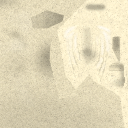
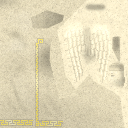
Shrine texture update, shrine prisms track active buffs

diff --git a/src/com/xrbpowered/ruins/render/prefab/PrefabRenderer.java b/src/com/xrbpowered/ruins/render/prefab/PrefabRenderer.java
@@ -18,8 +18,9 @@ public class PrefabRenderer extends InstanceRenderer<PrefabComponent> {
 	public static Prefab obelisk;
 	public static Prefab obeliskGlow;
 	public static Prefab portalBroken;
-	public static Prefab portalFrame;
+	public static Prefab portalOff;
 	public static Prefab portal;
+	public static Prefab shrineOff;
 	public static Prefab shrine;
 
 	public static Prefab[] jars;
@@ -71,14 +72,14 @@ public class PrefabRenderer extends InstanceRenderer<PrefabComponent> {
 		StaticMesh portalFrameMesh =mesh("portal/portal.obj");
 		PrefabRenderer.portalBroken = new Prefab(false, add(new PrefabComponent(mesh("portal/portal_broken.obj"), portalTex)));
 		
-		final PrefabComponent portalFrameOn = add(new PrefabComponent(portalFrameMesh, portalTex).setGlow(texture("portal/portal_glow.png")));
+		final PrefabComponent portalFrame = add(new PrefabComponent(portalFrameMesh, portalTex));
 		final PrefabComponent portalPane = add(new PrefabComponent(mesh("portal/portal_pane.obj"), InstanceComponent.getBlack()).setCulling(false).setGlow(texture("portal/astral.png")));
 		final PrefabComponent portalInteract = add(new PrefabComponent(mesh("portal/portal_inter.obj"), portalTex));
-		PrefabRenderer.portalFrame = new Prefab(true, add(new PrefabComponent(portalFrameMesh, portalTex)));
+		PrefabRenderer.portalOff = new Prefab(true, portalFrame);
 		PrefabRenderer.portal = new Prefab() {
 			@Override
 			public void addInstance(World world, MapObject obj) {
-				portalFrameOn.addInstance(obj.instInfo);
+				portalFrame.addInstance(obj.instInfo);
 				portalPane.addInstance(obj.instInfo);
 			}
 			@Override
@@ -90,6 +91,13 @@ public class PrefabRenderer extends InstanceRenderer<PrefabComponent> {
 		final PrefabComponent angel = add(new PrefabComponent(mesh("shrine/angel.obj"), texture("shrine/angel.png")));
 		final PrefabComponent shrineBase = add(new PrefabComponent(mesh("shrine/base.obj"), texture("shrine/base.png")));
 		final PrefabComponent prism = add(new PrefabComponent(mesh("shrine/prism.obj"), new Texture(new Color(0xd0ecff))).setGlow(new Texture(new Color(0x35354d))));
+		PrefabRenderer.shrineOff = new Prefab(true, angel) {
+			@Override
+			public void addInstance(World world, MapObject obj) {
+				super.addInstance(world, obj);
+				shrineBase.addInstance(obj.instInfo);
+			}
+		};
 		PrefabRenderer.shrine = new Prefab(true, angel) {
 			@Override
 			public void addInstance(World world, MapObject obj) {
@@ -134,6 +142,7 @@ public class PrefabRenderer extends InstanceRenderer<PrefabComponent> {
 	}
 	
 	public void updateAllInstances(World world) {
+		//System.out.println("--- updateAllInstances");
 		// FIXME optimise instance update
 		releaseInstances();
 		createInstances(world);

diff --git a/src/com/xrbpowered/ruins/world/obj/Shrine.java b/src/com/xrbpowered/ruins/world/obj/Shrine.java
@@ -31,7 +31,7 @@ public class Shrine extends TileObject implements WorldEntity {
 
 	@Override
 	public Prefab getPrefab() {
-		return PrefabRenderer.shrine;
+		return isActive() ? PrefabRenderer.shrine : PrefabRenderer.shrineOff;
 	}
 
 	@Override
@@ -49,13 +49,19 @@ public class Shrine extends TileObject implements WorldEntity {
 		Ruins.overlayShrine.show(this);
 	}
 	
+	public boolean isActive() {
+		return !world.player.buffs.has(buff);
+	}
+	
 	@Override
 	public boolean updateTime(float dt) {
-		effect.pivot.set(position);
-		effect.pivot.x -= 0.35 * d.dx;
-		effect.pivot.z -= 0.35 * d.dz;
-		effect.pivot.y += 1.9;
-		generator.update(dt);
+		if(isActive()) {
+			effect.pivot.set(position);
+			effect.pivot.x -= 0.35 * d.dx;
+			effect.pivot.z -= 0.35 * d.dz;
+			effect.pivot.y += 1.9;
+			generator.update(dt);
+		}
 		return true;
 	}
 	

diff --git a/src/com/xrbpowered/ruins/entity/player/PlayerBuffs.java b/src/com/xrbpowered/ruins/entity/player/PlayerBuffs.java
@@ -12,6 +12,8 @@ import com.xrbpowered.ruins.entity.player.buff.Buff;
 
 public class PlayerBuffs {
 
+	public boolean changed = false;
+	
 	private HashMap<Buff, Float> active = new HashMap<>();
 	
 	public void load(DataInputStream in) throws IOException {
@@ -38,6 +40,8 @@ public class PlayerBuffs {
 	}
 	
 	private void add(Buff buff, float duration) {
+		if(!has(buff))
+			changed = true;
 		active.put(buff, duration);
 		buff.activate();
 	}
@@ -65,6 +69,7 @@ public class PlayerBuffs {
 			if(t>0f)
 				e.setValue(t);
 			else {
+				changed = true;
 				i.remove();
 				e.getKey().deactivate();
 				Ruins.hud.repaint();
@@ -73,6 +78,8 @@ public class PlayerBuffs {
 	}
 	
 	public void removeAll() {
+		if(!active.isEmpty())
+			changed = true;
 		for(Buff buff : active.keySet())
 			buff.deactivate();
 		active.clear();

diff --git a/src/com/xrbpowered/ruins/render/TileObjectPicker.java b/src/com/xrbpowered/ruins/render/TileObjectPicker.java
@@ -14,6 +14,7 @@ public class TileObjectPicker {
 	public static final float reach = 3.0f;
 	
 	private ActorPicker pick;
+	private StaticMeshActor objActor = new StaticMeshActor();
 
 	private World world;
 	private WallChunk[] walls;
@@ -32,7 +33,7 @@ public class TileObjectPicker {
 	public void update(RenderTarget target) {
 		update(target, false);
 	}
-	
+
 	public void update(RenderTarget target, boolean test) {
 		if(test)
 			pick.startPickingTest(target.getWidth()/2, target.getHeight()/2, target);
@@ -47,7 +48,6 @@ public class TileObjectPicker {
 		}
 		
 		int objId = 1;
-		StaticMeshActor objActor = new StaticMeshActor();
 		for(MapObject obj : world.objects) {
 			PrefabComponent comp = obj.getInteractionComp();
 			if(comp!=null) {

diff --git a/src/com/xrbpowered/ruins/render/effect/FlashPane.java b/src/com/xrbpowered/ruins/render/effect/FlashPane.java
@@ -134,7 +134,6 @@ public class FlashPane extends UINode {
 			dazeUpdated = 1f;
 		if(daze || dazeUpdated<1f)
 			shader.black += 0.2f * (daze ? dazeUpdated : 1f-dazeUpdated) * ((float)Math.sin(t*0.7f)*0.5f+0.5f);
-		super.updateTime(dt);
 	}
 	
 	public void render(RenderTarget target) {
@@ -143,7 +142,6 @@ public class FlashPane extends UINode {
 			PaneShader.getInstance().quad.draw();
 			shader.unuse();
 		}
-		super.render(target);
 	}
 	
 	@Override

diff --git a/src/com/xrbpowered/ruins/entity/player/PlayerEntity.java b/src/com/xrbpowered/ruins/entity/player/PlayerEntity.java
@@ -226,6 +226,11 @@ public class PlayerEntity extends EntityActor {
 		}
 		if(alive) {
 			buffs.update(dt);
+			if(buffs.changed) {
+				Ruins.prefabs.updateAllInstances(world);
+				buffs.changed = false;
+			}
+			
 			if(!intangible) {
 				if(!buffs.has(Buff.fox))
 					hydration -= hydrationLoss*dt;

diff --git a/src/com/xrbpowered/ruins/world/obj/Portal.java b/src/com/xrbpowered/ruins/world/obj/Portal.java
@@ -26,7 +26,7 @@ public class Portal extends TileObject implements WorldEntity {
 
 	@Override
 	public Prefab getPrefab() {
-		return active ? PrefabRenderer.portal : PrefabRenderer.portalFrame;
+		return active ? PrefabRenderer.portal : PrefabRenderer.portalOff;
 	}
 
 	@Override
